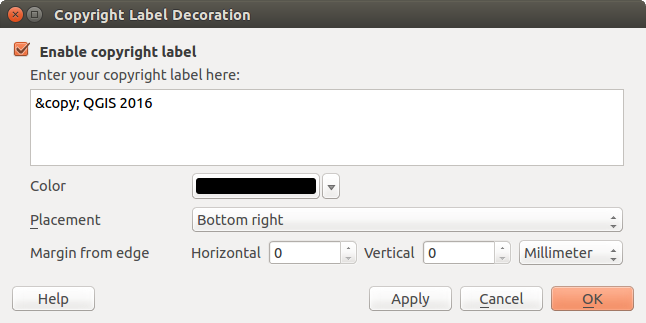
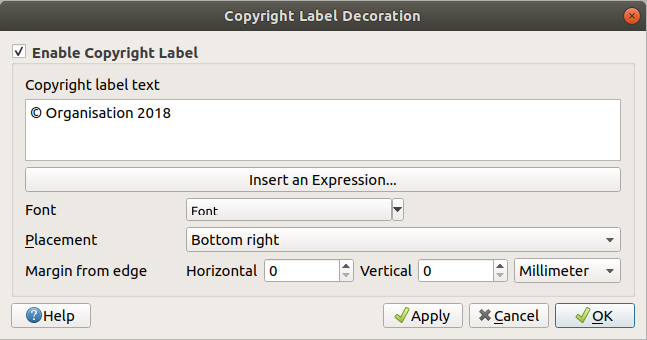
Update copyright decoration description (#3277)
Also Updated the screen shot for the copyright decoration

Changed region(s): [[0.0, 0.0, 1.0, 1.0], [0.031, 0.774, 0.2477, 0.8359]]

diff --git a/source/docs/user_manual/introduction/general_tools.rst b/source/docs/user_manual/introduction/general_tools.rst
@@ -854,6 +854,8 @@ you prefer to the map.
    checked.
 #. Enter the text you want to place on the map. You can use HTML as
    shown in the example.
+#. Choose the font of the label from the :guilabel:`Font` |selectString| combo box. Set the
+   font color and opacity by clicking the black arrow to the right of the font combo box.
 #. Choose the placement of the label from the :guilabel:`Placement`
    |selectString| combo box.
 #. You can refine the placement of the item by setting a Horizontal and/or Vertical
